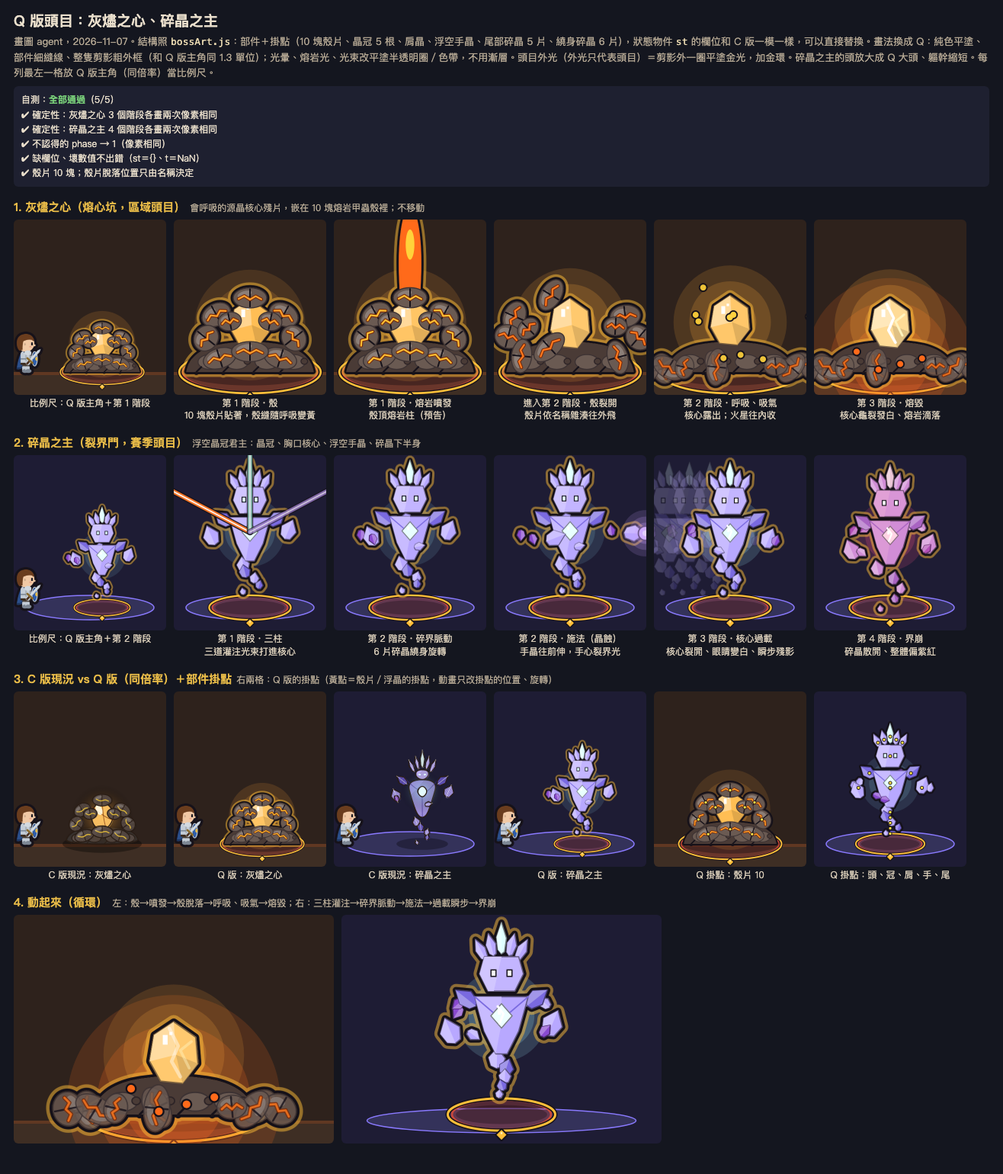
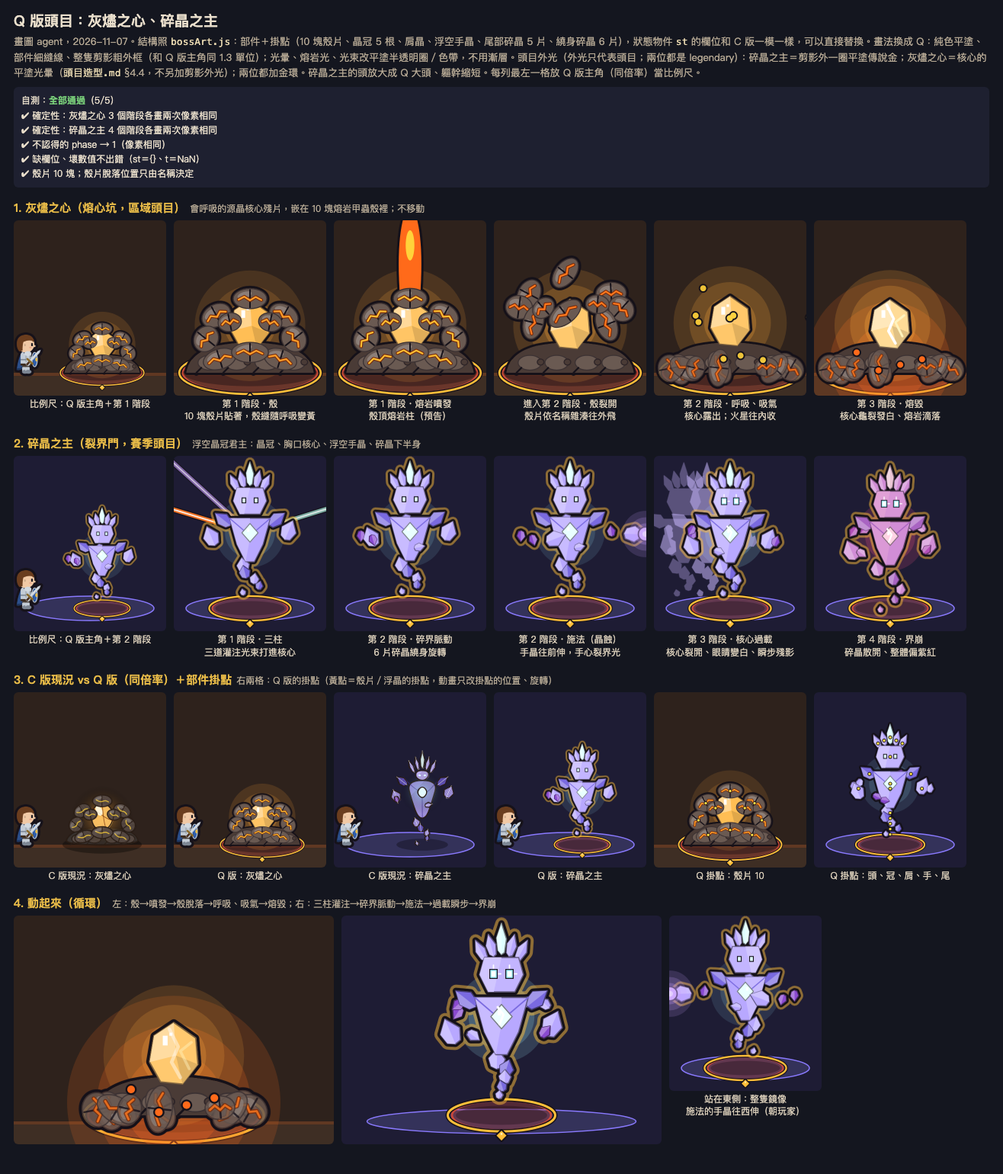
docs(art): Q creatures/bosses review fixes (eyes, glow, beams, bat spikes, soft mist)

diff --git a/docs/art/sample/qCreature.js b/docs/art/sample/qCreature.js
@@ -30,9 +30,12 @@ window.QCreature = (() => {
   /** 平塗一塊；部件之間一條細縫線（顏色＝本色加深，像 qDoll 袖子的 seam），外輪廓由剪影外框負責。 */
   // Q 大頭：身形的 qHead＝[第一個頭部部件的名稱開頭, 支點 x, 支點 y, 倍率]。畫到那個部件起，之後的部件（頭、耳、口鼻、眼、牙）
   //   以支點（頸部）為中心放大，頭往前上方長大、身體不動；畫完身體就還原（特徵、詞綴的位置照 enemyArt.js 的 head 點）。
-  let QHEAD = null, IN_HEAD = false;
+  //   第 5 個值（選填）＝結束部件的名稱開頭：畫到它時還原（傀儡的近側手臂、鳥的爪子在頭之後才畫，不跟著放大）。
+  let QHEAD = null, IN_HEAD = false, HEAD_DONE = false;
   function headHook(ctx, key) {
-    if (!QHEAD || IN_HEAD || !key.startsWith(QHEAD[0])) return;
+    if (!QHEAD) return;
+    if (IN_HEAD && QHEAD[4] && key.startsWith(QHEAD[4])) { ctx.restore(); IN_HEAD = false; HEAD_DONE = true; return; }
+    if (IN_HEAD || HEAD_DONE || !key.startsWith(QHEAD[0])) return;
     const [, x, y, s] = QHEAD; IN_HEAD = true; ctx.save(); ctx.translate(x, y); ctx.scale(s, s); ctx.translate(-x, -y);
   }
   function ink(ctx, key, pts, color, opt = {}) {
@@ -41,7 +44,7 @@ window.QCreature = (() => {
     if (opt.line !== false) { ctx.strokeStyle = mix(color, OUT, 0.55); ctx.lineWidth = 0.55; ctx.lineJoin = "round"; ctx.stroke(); }
     ctx.restore();
   }
-  function stroke(ctx, key, pts, w = 0.7, color = OUT) { ctx.save(); ctx.strokeStyle = color; ctx.lineWidth = w; ctx.lineCap = "round"; ctx.lineJoin = "round"; smooth(ctx, pts, false); ctx.stroke(); ctx.restore(); }
+  function stroke(ctx, key, pts, w = 0.7, color = OUT) { headHook(ctx, key); ctx.save(); ctx.strokeStyle = color; ctx.lineWidth = w; ctx.lineCap = "round"; ctx.lineJoin = "round"; smooth(ctx, pts, false); ctx.stroke(); ctx.restore(); }
   function limb(ctx, key, pts, w, color) { stroke(ctx, key, pts, w + 1.1, mix(color, OUT, 0.55)); stroke(ctx, key, pts, w, color); }
   function dot(ctx, x, y, rx, ry, c) { ctx.fillStyle = c; ctx.beginPath(); ctx.ellipse(x, y, rx, ry, 0, 0, TAU); ctx.fill(); }
 
@@ -194,7 +197,7 @@ window.QCreature = (() => {
       ink(ctx, "be-snout", ellPts(23.4, -22.2, 2.6, 2, 10), P.l, { shade: false, w: 0.6 });
       dot(ctx, 25.2, -23, 0.9, 0.8, INK); eye(ctx, 18.6, -25.6, P, 0.9);
     } },
-    flyer: { qHead: ["fl-be", 4, -2, 1.25], qHeadVariant: "bat",  zh: "飛禽", fur: "#a07a4a", top: -50, head: [9, -22], len: 20, hover: true, sp: [[-4, -22], [0, -24], [4, -22]], draw(ctx, P, v) {
+    flyer: { qHeadBy: { bat: ["fl-be", 4, -2, 1.25], bird: ["fl-head", 6, -2, 1.18, "fl-claw"] },  zh: "飛禽", fur: "#a07a4a", top: -50, head: [9, -22], len: 20, hover: true, sp: [[-4, -22], [0, -24], [4, -22]], draw(ctx, P, v) {
       ctx.save(); ctx.translate(0, -18);
       if (v === "bat") {
         mass(ctx, "fl-bwf", [[-1, -3], [-10, -16], [-20, -14], [-17, -9], [-22, -6], [-15, -3], [-16, 2], [-4, 1]], P, { color: P.d });
@@ -203,7 +206,7 @@ window.QCreature = (() => {
         for (const [x, t] of [[3, -14], [7.4, -14.6]]) mass(ctx, `fl-be${x}`, [[x - 1.6, -8.4], [x, t], [x + 1.6, -8.4]], P, { sharp: true, w: 0.6 });
         mass(ctx, "fl-bhead", ellPts(5, -6.4, 4, 3.6, 12), P);
         eye(ctx, 7, -7, P, 0.8); fang(ctx, "fl-bfang", 7.6, -3.6, 1.6);
-        back(ctx, "fl-b", [[10, -18], [-10, -16]], P);
+        // Q 版：蝠不畫 back()（enemyArt.js 的背點在翅尖外，晶刺、苔點會浮在半空，審查退回 #4）
       } else {
         mass(ctx, "fl-wf", [[-2, -4], [-12, -26], [-20, -30], [-16, -22], [-22, -24], [-14, -12], [-4, 2]], P, { color: P.d, sharp: true });
         mass(ctx, "fl-tail", [[-8, 2], [-18, 8], [-16, 2], [-20, 4], [-9, -1]], P, { color: P.d, sharp: true, shade: false, w: 0.6 });
@@ -280,7 +283,7 @@ window.QCreature = (() => {
       back(ctx, "oz", [[-6, -15], [2, -16.6]], P);
       eye(ctx, 4.6, -10, P, 0.9); eye(ctx, 8.4, -10.2, P, 0.8);
     } },
-    golem: { zh: "傀儡", core: [-1, -29], fur: "#8a847e", top: -49, head: [2, -44], len: 17, sp: [[-9, -38.4], [-3, -39.6], [3, -40]], draw(ctx, P) {
+    golem: { qHead: ["go-head", 1, -40, 1.28, "go-arm"], zh: "傀儡", core: [-1, -29], fur: "#8a847e", top: -49, head: [2, -44], len: 17, sp: [[-9, -38.4], [-3, -39.6], [3, -40]], draw(ctx, P) {
       mass(ctx, "go-legf", [[-7, -16], [-1, -16], [-1.6, 0], [-8, 0]], P, { color: P.d });
       mass(ctx, "go-armf", [[-10, -37], [-15, -34], [-17, -18], [-12, -17], [-11, -30]], P, { color: P.d });
       mass(ctx, "go-legn", [[0, -16], [6, -16], [6.6, 0], [-0.4, 0]], P);
@@ -317,7 +320,7 @@ window.QCreature = (() => {
       limb(ctx, "wr-arm-l", [[-7, -30], [-12, -22], [-14, -16]], 2.2, P.base);
       mass(ctx, "wr-body", [[-8, -34], [-10, -20], [-7, -8], [-4, -2], [-1, -6], [2, -1], [5, -6], [9, -18], [8, -34]], P, { main: true });
       mass(ctx, "wr-head", ellPts(0, -38, 6, 6.4, 14), P);
-      for (const x of [-2.2, 2.2]) dot(ctx, x, -38, 1.3, 0.9, P.eye);
+      for (const x of [-2.4, 2.4]) { dot(ctx, x, -38, 1.9, 2.1, dark(P.base, 0.55)); eye(ctx, x, -38, { eye: light(P.eye, 0.4) }, 0.85); } // Q：暗色眼窩＋方眼，霧材質、任何元素都看得到
       limb(ctx, "wr-arm-r", [[7, -30], [12, -23], [15, -18]], 2.2, P.base);
       ctx.restore();
     } },
@@ -340,10 +343,10 @@ window.QCreature = (() => {
       ink(ctx, "tr-vc-mouth", ellPts(x, y - 6, 2, 0.8, 10), P.accent ?? ELEM.fire[0], { shade: false, w: 0.4 });
       for (const [i, [dx, dy, r]] of [[-0.6, -9.6, 1.6], [1.6, -12.4, 1.9]].entries()) ink(ctx, `tr-vc-sm${i}`, ellPts(x + dx, y + dy, r, r, 10), "#9a9490", { shade: false, w: 0.4, alpha: 0.75 });
     } },
-    smoke: { zh: "黃煙", draw(ctx, a) {
-      for (const [i, [x, y, r]] of [[-a.len * 0.6, a.top * 0.7, 2.6], [a.len * 0.2, a.top * 1.05, 3], [a.len * 0.7, a.top * 0.5, 2.2]].entries()) ink(ctx, `tr-sk${i}`, ellPts(x, y, r, r * 0.8, 12), "#e8d860", { shade: false, w: 0.4, alpha: 0.55 });
+    smoke: { zh: "黃煙", soft: true, draw(ctx, a) { // Q：無外框、半透明，從背上往上飄、越高越大越淡
+      for (const [i, [x, y, r, al]] of [[-a.len * 0.25, a.top - 1, 2, 0.6], [-a.len * 0.1, a.top - 5.5, 2.8, 0.45], [a.len * 0.05, a.top - 11, 3.6, 0.3]].entries()) { ctx.save(); ctx.globalAlpha = al; ink(ctx, `tr-sk${i}`, ellPts(x, y, r, r * 0.85, 12), "#e8d860", { line: false }); ctx.restore(); }
     } },
-    mist: { zh: "霧氣繞身", draw(ctx, a) {
+    mist: { zh: "霧氣繞身", soft: true, draw(ctx, a) {
       ctx.save(); ctx.globalAlpha = 0.55;
       for (const [i, [x, y, r]] of [[-a.len * 0.7, -2, 3.4], [-a.len * 0.1, -1, 4], [a.len * 0.6, -2.4, 3]].entries()) ink(ctx, `tr-ms${i}`, ellPts(x, y, r, r * 0.55, 12), "#eef2f4", { shade: false, line: false });
       stroke(ctx, "tr-ms-l", [[-a.len, -6], [-a.len * 0.4, -8], [0, -6]], 0.5, "#ffffff");
@@ -389,7 +392,7 @@ window.QCreature = (() => {
       }
     } },
     armored: { zh: "堅甲的", draw(ctx, a) {
-      const y = a.top * (a.hover ? 0.55 : 0.6);
+      const y = a.armorY ?? a.top * (a.hover ? 0.55 : 0.6);
       for (const [i, x] of [-a.len * 0.35, a.len * 0.1].entries()) ink(ctx, `af-ar${i}`, [[x - 4, y - 1.4], [x + 4, y - 2.4], [x + 4.6, y + 3], [x - 3.6, y + 3.6]], "#8d969f", { w: 0.7 });
       for (const [i, x] of [-a.len * 0.35, a.len * 0.1].entries()) dot(ctx, x, y + 0.6, 0.6, 0.6, "#3c4248");
     } },
@@ -404,7 +407,7 @@ window.QCreature = (() => {
       }
     } },
     // 玩法 PM 清單（#111）的區域詞綴
-    mist_hidden: { zh: "霧隱的", draw(ctx, a) { // 邊緣模糊：身邊幾團白霧（本體在 stamp 裡另外降到 75% 不透明）
+    mist_hidden: { zh: "霧隱的", soft: true, draw(ctx, a) { // 邊緣模糊：身邊幾團白霧（本體在 stamp 裡另外降到 75% 不透明）
       ctx.save(); ctx.globalAlpha = 0.6;
       for (const [i, [x, y, r]] of [[-a.len * 0.8, a.top * 0.4, 3.6], [a.len * 0.7, a.top * 0.65, 3.2], [-a.len * 0.2, a.top * 0.95, 3], [a.len * 0.2, -1.4, 4]].entries()) ink(ctx, `af-mh${i}`, ellPts(x, y, r, r * 0.7, 12), "#eef2f4", { shade: false, line: false });
       ctx.restore();
@@ -461,8 +464,14 @@ window.QCreature = (() => {
     const off = mkc(W, H), g = off.getContext("2d"); g.setTransform(m, 0, 0, m, -box[0] * m, -box[1] * m); draw(g);
     const ow = (o.ow ?? 1.3) * m, rim = dilate(tint(off, OUT), ow), rg = rim.getContext("2d");
     rg.globalCompositeOperation = "destination-out"; rg.drawImage(off, 0, 0);
+    if (o.fade) { // o.fade＝[下緣 y, 開始淡出的 y]（單位）：分 3 段平塗淡出（不是漸層），本體和外框一起
+      const [yb, yt] = o.fade;
+      for (const c of [off, rim]) { const q = c.getContext("2d"); q.save(); q.setTransform(m, 0, 0, m, -box[0] * m, -box[1] * m); q.globalCompositeOperation = "destination-out";
+        [0.35, 0.65, 0.92].forEach((al, i) => { const y0 = yt + ((yb - yt) * i) / 3, y1 = i === 2 ? box[3] : yt + ((yb - yt) * (i + 1)) / 3; q.globalAlpha = al; q.fillRect(box[0], y0, box[2] - box[0], y1 - y0); }); q.restore(); }
+    }
     ctx.save();
     const put = (c, a) => { ctx.globalAlpha = a; ctx.drawImage(c, box[0], box[1], W / m, H / m); };
+    if (o.flat) { put(tint(off, o.flat), o.alpha ?? 1); ctx.restore(); return; } // 整隻剪影單色平塗（殘影用）
     if (o.glow) { const gl = dilate(tint(off, o.glow), ow + (o.glowW ?? 2.6) * m, 24), gg = gl.getContext("2d"); gg.globalCompositeOperation = "destination-out"; gg.drawImage(off, 0, 0); put(gl, o.glowA ?? 0.6); }
     const a = o.alpha ?? 1;
     put(rim, a < 1 ? Math.min(1, a + 0.2) : 1);
@@ -483,12 +492,11 @@ window.QCreature = (() => {
   }
   function drawBody(ctx, r) {
     const info = { head: r.b.head, top: r.b.top, len: r.b.len, sp: r.b.sp, core: r.b.core };
-    for (const t of r.traits) if (t === "mist") TRAITS[t].draw(ctx, info, r.P); // 霧在身體後面
-    QHEAD = r.b.qHead && (!r.b.qHeadVariant || r.b.qHeadVariant === r.variant) ? r.b.qHead : null; IN_HEAD = false;
+    QHEAD = (r.b.qHeadBy ? r.b.qHeadBy[r.variant] : r.b.qHead) ?? null; IN_HEAD = false; HEAD_DONE = false;
     r.b.draw(ctx, r.P, r.variant);
     if (IN_HEAD) ctx.restore();
-    QHEAD = null; IN_HEAD = false;
-    for (const t of r.traits) if (t !== "mist" && t !== "smoke" && t !== "sparks") TRAITS[t].draw(ctx, info, r.P);
+    QHEAD = null; IN_HEAD = false; HEAD_DONE = false;
+    for (const t of r.traits) if (!TRAITS[t].soft && t !== "sparks") TRAITS[t].draw(ctx, info, r.P);
   }
   const BOX = [-62, -84, 62, 18];
   /** 畫在 (cx, cy)（腳底）、倍率 k、west 鏡像。spec.glow：頭目外光色（史詩 #b06cff、傳說 #ffbf3a）。 */
@@ -500,22 +508,30 @@ window.QCreature = (() => {
     ctx.save(); ctx.scale(s, s); ctx.fillStyle = "rgba(10,8,14,0.32)"; ctx.beginPath(); ctx.ellipse(0, 0.2, Math.max(7, r.b.len * 0.62), 2.4, 0, 0, TAU); ctx.fill(); ctx.restore();
     ctx.scale(west ? -s : s, s);
     const mist = r.P.mat === "mist" ? 0.62 : 1, hid = r.affixes.includes("mist_hidden") ? 0.75 : 1;
-    if (r.affixes.includes("mirror")) layer(ctx, BOX, (g) => { g.translate(-9, -1); drawBody(g, r); }, { ow, alpha: 0.35 });
-    layer(ctx, BOX, (g) => drawBody(g, r), { ow, alpha: mist * hid, glow: spec.glow });
-    const fx = r.affixes.filter((a) => AFFIX[a]), tfx = r.traits.filter((t) => t === "smoke" || t === "sparks");
+    // 霧團、黃煙、霧隱：無外框、半透明，直接畫（描了黑框會像石頭，審查退回 #5、#6）
+    if (r.traits.includes("mist")) TRAITS.mist.draw(ctx, info, r.P); // 霧在身體後面
+    const fade = r.P.mat === "mist" ? [1, r.b.top * 0.3] : null; // 霧材質：下緣分 3 段淡出（腳、尾巴斷開），和淺色毛皮分得開
+    if (r.affixes.includes("mirror")) layer(ctx, BOX, (g) => { g.translate(-9, -1); drawBody(g, r); }, { ow, alpha: 0.35, fade });
+    layer(ctx, BOX, (g) => drawBody(g, r), { ow, alpha: mist * hid, glow: spec.glow, fade });
+    for (const t of r.traits) if (TRAITS[t].soft && t !== "mist") TRAITS[t].draw(ctx, info, r.P);
+    for (const a of r.affixes) if (AFFIX[a]?.soft) AFFIX[a].draw(ctx, info);
+    const fx = r.affixes.filter((a) => AFFIX[a] && !AFFIX[a].soft), tfx = r.traits.filter((t) => t === "sparks");
     if (fx.length || tfx.length) layer(ctx, BOX, (g) => { for (const t of tfx) TRAITS[t].draw(g, info, r.P); for (const a of fx) AFFIX[a].draw(g, info); }, { ow: 0.8 / r.size });
     ctx.restore();
   }
-  // 人形敵人用：精英環＋詞綴特效（Q 版人形畫完後疊上去；人形的頭 (2,-29)、最高 -40、半身長 10）
-  const HUMANOID_INFO = { head: [2, -29], top: -40, len: 10, sp: [[-4, -20], [3, -20]] };
+  // 人形敵人用：精英環＋詞綴特效（Q 版人形畫完後疊上去）。Q 版頭：圓心 (0,-29)、r 8.5，頭頂 -38；
+  //   head 點放在頭頂上方（-34）：狂暴的紅霧在頭頂外；堅甲的鐵片在肩胸（armorY -20），不蓋臉。精英由呼叫端把倍率 ×1.15（ELITE_K）。
+  const HUMANOID_INFO = { head: [2, -35], top: -40, len: 10, armorY: -20, sp: [[-4, -20], [3, -20]] };
+  const ELITE_K = 1.15;
   function ringAt(ctx, cx, cy, k, elite) { ctx.save(); ctx.translate(cx, cy); ctx.scale(k, k); ring(ctx, 13, { elite }); ctx.restore(); }
   function overlay(ctx, affixes, cx, cy, k, element) {
     ctx.save(); ctx.translate(cx, cy); ctx.scale(k, k);
-    const fx = (affixes ?? []).filter((a) => AFFIX[a]);
-    if (fx.length) layer(ctx, BOX, (g) => { for (const a of fx) AFFIX[a].draw(g, { ...HUMANOID_INFO, element }); }, { ow: 0.8 });
+    const fx = (affixes ?? []).filter((a) => AFFIX[a] && !AFFIX[a].soft), info = { ...HUMANOID_INFO, element };
+    for (const a of affixes ?? []) if (AFFIX[a]?.soft) AFFIX[a].draw(ctx, info);
+    if (fx.length) layer(ctx, BOX, (g) => { for (const a of fx) AFFIX[a].draw(g, info); }, { ow: 0.8 });
     ctx.restore();
   }
   /** 全部身形（含變體）：[body, variant] */
   const ALL = Object.keys(BODIES).flatMap((b) => (b === "flyer" ? [[b, "bird"], [b, "bat"]] : b === "crawler" ? [[b, "beetle"], [b, "spider"]] : [[b, undefined]]));
-  return { stamp, resolve, layer, ring, ringAt, overlay, BODIES, ALL, MATERIALS, SIZES, AFFIX_ZH, TRAITS, ELEM, OUT, mix, dark, light, ellPts, seedOf };
+  return { stamp, resolve, layer, ELITE_K, HUMANOID_INFO, ring, ringAt, overlay, BODIES, ALL, MATERIALS, SIZES, AFFIX_ZH, TRAITS, ELEM, OUT, mix, dark, light, ellPts, seedOf };
 })();

diff --git a/docs/art/sample/qBoss.js b/docs/art/sample/qBoss.js
@@ -55,13 +55,16 @@ window.QBoss = (() => {
   function plateAnchor(p, shell, bt, breath) {
     const [key, x, y, r] = p;
     if (shell > 0) { const open = 0.6 * breath; return { x: x * (1 + 0.02 * open), y: y - open * 0.6, r, a: 1 }; }
-    const dir = Math.sign(x || rnd(key) - 0.5) || 1, vx = dir * (16 + 22 * rnd(key, 1)), vy = -(18 + 18 * rnd(key, 2)), spin = (rnd(key, 3) - 0.5) * 6;
-    if (bt >= 1) return { x: x * 1.6 + dir * 8, y: -2 - 2 * rnd(key, 4), r: r + spin * 0.8, a: 0.8 };
-    const tt = clamp(bt) * 0.9;
-    return { x: x + vx * tt, y: Math.min(-2, y + vy * tt + 70 * tt * tt), r: r + spin * tt, a: 1 };
+    // 落點收在 ±36（加上殼片半寬 ≤ ±44，不超過 2 格寬；審查退回 #11）；飛行＝從掛點到落點的拋物線
+    const dir = Math.sign(x || rnd(key) - 0.5) || 1, spin = (rnd(key, 3) - 0.5) * 6;
+    const fx = Math.max(-36, Math.min(36, x * 1.15 + dir * (4 + 4 * rnd(key, 1)))), fy = -2 - 2 * rnd(key, 4), hop = 14 + 12 * rnd(key, 2);
+    if (bt >= 1) return { x: fx, y: fy, r: r + spin * 0.8, a: 0.8 };
+    const u = clamp(bt);
+    return { x: x + (fx - x) * u, y: y + (fy - y) * u * u - hop * Math.sin(Math.PI * u), r: r + spin * 0.8 * u, a: 1 };
   }
   /**
-   * 灰燼之心（Q）。st：同 bossArt.js {phase: 1|2|3, shell: 0～1, breakT: 0～1, t: 毫秒, spout: 0～1, inhale: 0～1}；opt.glow：頭目外光色（預設傳說金，false＝不畫）。
+   * 灰燼之心（Q）。st：同 bossArt.js {phase: 1|2|3, shell: 0～1, breakT: 0～1, t: 毫秒, spout: 0～1, inhale: 0～1}。
+   * 外光＝核心的平塗光暈＋金環，不加剪影外光（opt.glow 只給比較用，預設不畫）。
    * 腳底 (0,0)，寬約 76 單位（Q 版主角高 38～46 的 2 倍寬）。
    */
   function drawAshenHeart(ctx, st = {}, opt = {}) {
@@ -82,7 +85,7 @@ window.QBoss = (() => {
         g.fillStyle = LAVA_HOT; g.beginPath(); g.ellipse(0, -58 - 20 * spout, 2.6, 10 * spout, 0, 0, TAU); g.fill(); g.restore();
       }
       for (const p of PLATES) { const A = plateAnchor(p, shell, bt, breath); g.save(); g.globalAlpha = A.a; g.translate(A.x, A.y); g.rotate(A.r); plate(g, p[4], p[5], shell > 0 ? breath : 0.15); g.restore(); }
-    }, { glow: opt.glow === false ? null : (opt.glow ?? GOLD), glowW: 1.6, glowA: 0.5 });
+    }, { glow: opt.glow || null, glowW: 1.6, glowA: 0.5 }); // 灰燼之心不加剪影外光：核心光暈就是它的外光（頭目造型.md §4.4，審查退回 #2）
     // 小粒子（吸氣的火星、熔毀滴落）：細外框
     const parts = [];
     if (inhale > 0) for (let k = 0; k < 12; k++) { const a = rnd("in", k) * TAU, d = 60 * (1 - ((t / 600 + rnd("in2", k)) % 1)); parts.push([Math.cos(a) * d, cy + Math.sin(a) * d * 0.6, 1.8, LAVA_HOT]); }
@@ -126,8 +129,12 @@ window.QBoss = (() => {
     const [hx, hy] = A.head, head = [[hx - 9, hy - 9], [hx + 9, hy - 9], [hx + 11.5, hy], [hx + 7, hy + 9], [hx - 7, hy + 9], [hx - 11.5, hy]];
     for (let k = 0; k < 5; k++) { const [x, y] = A[`crown-${k}`]; shard(g, x, y, 6 + (k === 2 ? 5 : 2), 2.6, (k - 2) * 0.24, tint(k === 2 ? CORE2 : CRYST)); }
     poly(g, head, tint(light(CRYST, 0.15))); poly(g, [[hx - 9, hy - 9], [hx, hy - 9], [hx - 4, hy + 9], [hx - 7, hy + 9], [hx - 11.5, hy]], tint(light(CRYST, 0.35)), { line: false });
-    const eyeC = phase >= 3 ? "#ffffff" : CORE2;
-    for (const x of [-4.2, 4.2]) { g.fillStyle = OUT; g.fillRect(hx + x - 1.6, hy - 2.4, 3.2, 4); g.fillStyle = eyeC; g.fillRect(hx + x - 1, hy - 1.8, 2, 2.8); }
+    for (const x of [-4.2, 4.2]) {
+      if (phase >= 3) { // 過載：眼睛變大、純白＋青色外圈＋十字光點（審查退回 #10）
+        g.fillStyle = OUT; g.fillRect(hx + x - 2.2, hy - 3, 4.4, 5.2); g.fillStyle = "#a0f0ff"; g.fillRect(hx + x - 1.7, hy - 2.5, 3.4, 4.2); g.fillStyle = "#ffffff"; g.fillRect(hx + x - 1.1, hy - 1.9, 2.2, 3);
+        line(g, [[hx + x, hy - 5], [hx + x, hy - 3.4]], 0.7, "#ffffff"); line(g, [[hx + x + 2.6, hy - 0.4], [hx + x + 3.8, hy - 0.4]], 0.7, "#ffffff");
+      } else { g.fillStyle = OUT; g.fillRect(hx + x - 1.6, hy - 2.4, 3.2, 4); g.fillStyle = CORE2; g.fillRect(hx + x - 1, hy - 1.8, 2, 2.8); }
+    }
     // 浮空手晶：施法時往前（東）伸
     const hxr = 26 + 16 * cast, hyr = -36 - 4 * Math.sin(t / 360);
     shard(g, -hxr + 30 * cast, hyr + 4, 9.5, 5.4, -0.4 + 1.6 * cast, tint(CRYST)); shard(g, hxr, hyr, 9.5, 5.4, 0.4 + 1.2 * cast, tint(CRYST));
@@ -135,22 +142,24 @@ window.QBoss = (() => {
     g.restore();
     return { hand: [hxr, hyr + hover] };
   }
-  /** 碎晶之主（Q）。st：同 bossArt.js {phase: 1～4, t, cast: 0～1, blink: 0～1, channel}；opt.glow 同上。 */
+  /** 碎晶之主（Q）。st：同 bossArt.js {phase: 1～4, t, cast: 0～1, blink: 0～1, channel}；opt.glow：頭目外光色（預設傳說金，false＝不畫）。
+   *  正面對稱；站在東側時呼叫端整隻鏡像（ctx.scale(-1, 1)），施法的手晶就往西伸。 */
   function drawShardLord(ctx, st = {}, opt = {}) {
     const t = num(st.t, 0), phase = [1, 2, 3, 4].includes(st.phase) ? st.phase : 1, hover = -10 - 3 * Math.sin(t / 500), cast = clamp(num(st.cast, 0)), blink = clamp(num(st.blink, 0));
     const tint = phase === 4 ? (c) => mix(c, "#ff5a8a", 0.35) : (c) => c, BOX = [-80, -112, 80, 14];
     ring(ctx, 26, { elite: true });
     ctx.fillStyle = "rgba(10,8,14,0.3)"; ctx.beginPath(); ctx.ellipse(0, 0, 24, 5, 0, 0, TAU); ctx.fill();
     flatGlow(ctx, 0, hover - 40, 24, phase === 4 ? "#ff5a8c" : "#a0f0ff", phase >= 3 ? 1 : 0.7);
-    if (blink > 0) for (let g = 3; g >= 1; g--) { ctx.save(); ctx.translate(-g * 14, 0); layer(ctx, BOX, (o) => slBody(o, st, hover, cast, tint, phase, t), { alpha: 0.22 * blink, ow: 0 }); /* 殘影不描外框（半透明的黑框會變成髒影子） */ ctx.restore(); }
+    // 瞬步殘影：整隻剪影單色平塗 2 層（審查退回 #9：原本 3 層半透明本體疊成碎片雲）
+    if (blink > 0) for (const [g, al] of [[2, 0.35], [1, 0.55]]) { ctx.save(); ctx.translate(-g * 16, 0); layer(ctx, BOX, (o) => slBody(o, st, hover, cast, tint, phase, t), { alpha: al * blink, flat: tint("#c8b8ff") }); ctx.restore(); }
+    // 灌注光束（三柱階段）：從左右側後方接到胸口核心，畫在本體後面（審查退回 #3：原本正上方那道穿過臉）
+    if (phase === 1 && st.channel !== false) for (let k = 0; k < 3; k++) {
+      const a = [-2.75, -0.4, -2.25][k], c = ["#ff7a2a", "#9ad8c8", "#c8a0ff"][k], p0 = [Math.cos(a) * 95, hover - 40 + Math.sin(a) * 70], p1 = [0, hover - 40];
+      ctx.save(); ctx.globalAlpha = 0.75 + 0.2 * Math.sin(t / 200 + k); line(ctx, [p0, p1], 4.4, OUT); line(ctx, [p0, p1], 3, c); line(ctx, [p0, p1], 0.9, "#ffffff"); ctx.restore();
+    }
     let hand = null;
     layer(ctx, BOX, (g) => { hand = slBody(g, st, hover, cast, tint, phase, t).hand; }, { glow: opt.glow === false ? null : (opt.glow ?? GOLD), glowW: 1.6, glowA: 0.5 });
     if (cast > 0) { layer(ctx, BOX, (g) => { g.fillStyle = "#d8b8ff"; g.beginPath(); g.arc(hand[0] + 10, hand[1], 4.4 * cast, 0, TAU); g.fill(); g.fillStyle = "#ffffff"; g.beginPath(); g.arc(hand[0] + 10, hand[1], 2 * cast, 0, TAU); g.fill(); }, { ow: 0.9 }); flatGlow(ctx, hand[0] + 10, hand[1], 16, "#c8a0ff", cast); }
-    // 灌注光束（三柱階段）：平塗色帶＋白芯
-    if (phase === 1 && st.channel !== false) for (let k = 0; k < 3; k++) {
-      const a = -Math.PI / 2 + (k - 1) * 0.9, c = ["#ff7a2a", "#9ad8c8", "#c8a0ff"][k], p0 = [Math.cos(a) * 90, hover - 40 + Math.sin(a) * 60], p1 = [0, hover - 40];
-      ctx.save(); ctx.globalAlpha = 0.75 + 0.2 * Math.sin(t / 200 + k); line(ctx, [p0, p1], 4.4, OUT); line(ctx, [p0, p1], 3, c); line(ctx, [p0, p1], 0.9, "#ffffff"); ctx.restore();
-    }
   }
   return { drawAshenHeart, drawShardLord, PLATES, SL_ANCHORS, plateAnchor };
 })();

diff --git a/docs/art/sample/q-bosses.html b/docs/art/sample/q-bosses.html
@@ -11,7 +11,7 @@
 </style></head>
 <body>
 <h1>Q 版頭目：灰燼之心、碎晶之主</h1>
-<p class="note">畫圖 agent，2026-11-07。結構照 <code>bossArt.js</code>：部件＋掛點（10 塊殼片、晶冠 5 根、肩晶、浮空手晶、尾部碎晶 5 片、繞身碎晶 6 片），狀態物件 <code>st</code> 的欄位和 C 版一模一樣，可以直接替換。畫法換成 Q：純色平塗、部件細縫線、整隻剪影粗外框（和 Q 版主角同 1.3 單位）；光暈、熔岩光、光束改平塗半透明圈／色帶，不用漸層。頭目外光（外光只代表頭目）＝剪影外一圈平塗金光，加金環。碎晶之主的頭放大成 Q 大頭、軀幹縮短。每列最左一格放 Q 版主角（同倍率）當比例尺。</p>
+<p class="note">畫圖 agent，2026-11-07。結構照 <code>bossArt.js</code>：部件＋掛點（10 塊殼片、晶冠 5 根、肩晶、浮空手晶、尾部碎晶 5 片、繞身碎晶 6 片），狀態物件 <code>st</code> 的欄位和 C 版一模一樣，可以直接替換。畫法換成 Q：純色平塗、部件細縫線、整隻剪影粗外框（和 Q 版主角同 1.3 單位）；光暈、熔岩光、光束改平塗半透明圈／色帶，不用漸層。頭目外光（外光只代表頭目；兩位都是 legendary）：碎晶之主＝剪影外一圈平塗傳說金；灰燼之心＝核心的平塗光暈（<code>頭目造型.md</code> §4.4，不另加剪影外光）；兩位都加金環。碎晶之主的頭放大成 Q 大頭、軀幹縮短。每列最左一格放 Q 版主角（同倍率）當比例尺。</p>
 <div id="st">自測中…</div>
 <h2>1. 灰燼之心（熔心坑，區域頭目）<small>會呼吸的源晶核心殘片，嵌在 10 塊熔岩甲蟲殼裡；不移動</small></h2>
 <div class="row" id="ah"></div>
@@ -20,7 +20,7 @@
 <h2>3. C 版現況 vs Q 版（同倍率）＋部件掛點<small>右兩格：Q 版的掛點（黃點＝殼片／浮晶的掛點，動畫只改掛點的位置、旋轉）</small></h2>
 <div class="row" id="cmp"></div>
 <h2>4. 動起來（循環）<small>左：殼→噴發→殼脫落→呼吸、吸氣→熔毀；右：三柱灌注→碎界脈動→施法→過載瞬步→界崩</small></h2>
-<div class="row"><canvas id="live-ah"></canvas><canvas id="live-sl"></canvas></div>
+<div class="row"><canvas id="live-ah"></canvas><canvas id="live-sl"></canvas><div id="east"></div></div>
 <script src="current.js"></script><script src="raceArt.js"></script><script src="paperdoll.js"></script>
 <script src="qDoll.js"></script><script src="storyDoll.js"></script><script src="bossArt.js"></script>
 <script src="qCreature.js"></script><script src="qBoss.js"></script>
@@ -75,6 +75,7 @@ card(CMP, "C 版現況：碎晶之主", "sl", (c) => BossArt.drawShardLord(c, { 
 card(CMP, "Q 版：碎晶之主", "sl", (c) => B.drawShardLord(c, { phase: 2, t: 900 }), 1.3, true);
 card(CMP, "Q 掛點：殼片 10", "ah", (c) => { B.drawAshenHeart(c, { phase: 1, shell: 1, t: 0 }, { glow: false }); anchors(c, B.PLATES.map((p) => [p[1], p[2]])); }, 1.6);
 card(CMP, "Q 掛點：頭、冠、肩、手、尾", "sl", (c) => { B.drawShardLord(c, { phase: 2, t: 0 }, { glow: false }); anchors(c, Object.values(B.SL_ANCHORS).map(([x, y]) => [x, y - 10])); }, 1.6);
+card(document.getElementById("east"), "站在東側：整隻鏡像<br>施法的手晶往西伸（朝玩家）", "sl", (c) => { c.scale(-1, 1); B.drawShardLord(c, { phase: 2, t: 900, cast: 1 }); }, 1.9).canvas.style.height = "230px";
 // 動起來
 function ahState(ms) { const t = ms % 9000; if (t < 2000) return { phase: 1, shell: 1, t: ms }; if (t < 3000) return { phase: 1, shell: 1, t: ms, spout: Math.sin(((t - 2000) / 1000) * Math.PI) }; if (t < 4200) return { phase: 2, shell: 0, breakT: (t - 3000) / 1200, t: ms }; if (t < 6500) return { phase: 2, shell: 0, breakT: 1, t: ms, inhale: t > 5000 ? Math.sin(((t - 5000) / 1500) * Math.PI) : 0 }; return { phase: 3, shell: 0, breakT: 1, t: ms }; }
 function slState(ms) { const t = ms % 9000; if (t < 2200) return { phase: 1, t: ms }; if (t < 4000) return { phase: 2, t: ms }; if (t < 5200) return { phase: 2, t: ms, cast: Math.sin(((t - 4000) / 1200) * Math.PI) }; if (t < 7000) return { phase: 3, t: ms, blink: t < 5800 ? 1 - (t - 5200) / 600 : 0 }; return { phase: 4, t: ms }; }

diff --git a/docs/art/sample/q-creatures.html b/docs/art/sample/q-creatures.html
@@ -32,7 +32,7 @@
 <h2>6. 名單上的單位：C 版現況 vs Q 版<small>熔岩獸群、野獸、源晶造物（<code>敵人外觀.md</code> 第 2、4 段的 <code>creature</code> 值原樣）</small></h2>
 <canvas id="roster"></canvas>
 
-<h2>7. 人形敵人疊精英詞綴（Q 版紙娃娃＋同一套環與特效）</h2>
+<h2>7. 人形敵人疊精英詞綴（Q 版紙娃娃＋同一套環與特效）<small>精英 ×1.15；紅霧在頭頂外、鐵片在肩胸，不蓋臉</small></h2>
 <canvas id="human"></canvas>
 
 <script src="current.js"></script><script src="raceArt.js"></script><script src="paperdoll.js"></script>
@@ -128,7 +128,7 @@ const bodyZh = (b, v) => (v === "bat" ? "蝠" : v === "bird" ? "鳥" : v === "sp
 // ---------- 5. 詞綴 ----------
 (function () {
   const A = ["(無)", "regen", "mist_hidden", "linked", "berserk", "blazing", "hardshell", "armored", "swift", "mirror", "elemental", "unknown"];
-  const CW = 1280 / A.length, H = 130, x = cv("affix", 1280, H), k = 1.4;
+  const CW = 1280 / A.length, H = 165, x = cv("affix", 1280, H), k = 1.2;
   A.forEach((a, i) => { const X = i * CW; cell(x, X, 0, CW, H, i % 2); QC.stamp(x, { body: "hound", material: "fur", tint: "#c8ccd0", element: a === "elemental" ? "fire" : undefined, elite: true, affixes: a === "(無)" ? [] : [a] }, X + CW / 2 + 6, H - 24, k, false); label(x, QC.AFFIX_ZH[a] ?? (a === "(無)" ? "一般" : "不認得"), X + CW / 2, 14, "#f2e6c8", 12); label(x, a, X + CW / 2, 27, "#8a8070", 10); });
 })();
 
@@ -146,6 +146,7 @@ const bodyZh = (b, v) => (v === "bat" ? "蝠" : v === "bird" ? "鳥" : v === "sp
     ["熔晶魅", { body: "wraith", material: "mist", element: "fire" }], ["碎晶傀儡", { body: "golem", material: "crystal", element: "lightning" }],
     ["源晶柱・霧", { body: "pylon", material: "crystal", element: "wind" }], ["源晶柱・雷", { body: "pylon", material: "crystal", element: "lightning" }],
     ["源晶柱・火", { body: "pylon", material: "crystal", element: "fire" }], ["餘燼幼蜥（召喚 tiny）", { body: "lizard", material: "magma", size: "tiny" }],
+    ["木傀儡", { body: "golem", material: "wood", size: "small" }], ["陣眼石靈", { body: "pylon", material: "stone" }],
   ];
   const PER = 6, CW = 1280 / PER, RH = 150, rows = Math.ceil(U.length / PER), x = cv("roster", 1280, rows * RH), k = 1.2;
   U.forEach(([t, s], i) => {
@@ -157,8 +158,8 @@ const bodyZh = (b, v) => (v === "bat" ? "蝠" : v === "bird" ? "鳥" : v === "sp
 
 // ---------- 7. 人形 ----------
 (function () {
-  const A = [[], ["berserk"], ["regen"], ["armored"], ["blazing"], ["linked"], ["swift"]], CW = 1280 / A.length, H = 120, x = cv("human", 1280, H), k = 1.4, T = PaperDoll.TEMPLATES.bandit ?? HERO;
-  A.forEach((a, i) => { const X = i * CW, cx = X + CW / 2, fy = H - 22; cell(x, X, 0, CW, H, i % 2); QC.ringAt(x, cx, fy, k, i > 0); QDoll.stamp(x, T, "side", cx, fy, k, false); QC.overlay(x, a, cx, fy, k, "fire"); label(x, a.length ? QC.AFFIX_ZH[a[0]] : "一般（不是精英）", cx, 14, "#f2e6c8", 12); });
+  const A = [[], ["berserk"], ["regen"], ["armored"], ["blazing"], ["linked"], ["swift"], ["mist_hidden"]], CW = 1280 / A.length, H = 130, x = cv("human", 1280, H), k = 1.4, T = PaperDoll.TEMPLATES.bandit ?? HERO;
+  A.forEach((a, i) => { const X = i * CW, cx = X + CW / 2, fy = H - 22, ke = i > 0 ? k * QC.ELITE_K : k; cell(x, X, 0, CW, H, i % 2); QC.ringAt(x, cx, fy, ke, i > 0); QDoll.stamp(x, T, "side", cx, fy, ke, false); QC.overlay(x, a, cx, fy, ke, "fire"); label(x, a.length ? QC.AFFIX_ZH[a[0]] : "一般（不是精英）", cx, 14, "#f2e6c8", 12); });
 })();
 document.body.dataset.h = document.documentElement.scrollHeight; // 拍圖用的頁高
 </script>
